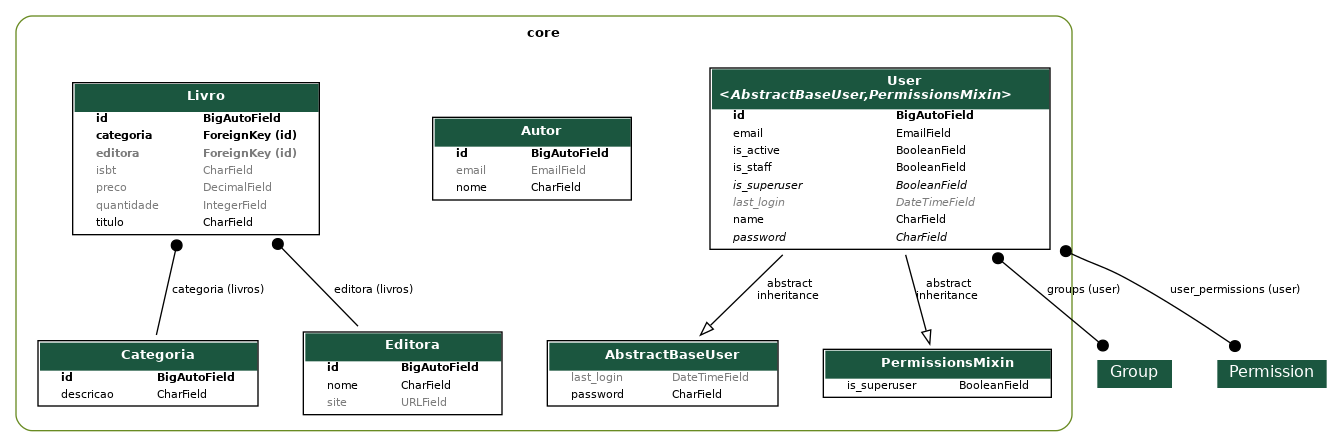
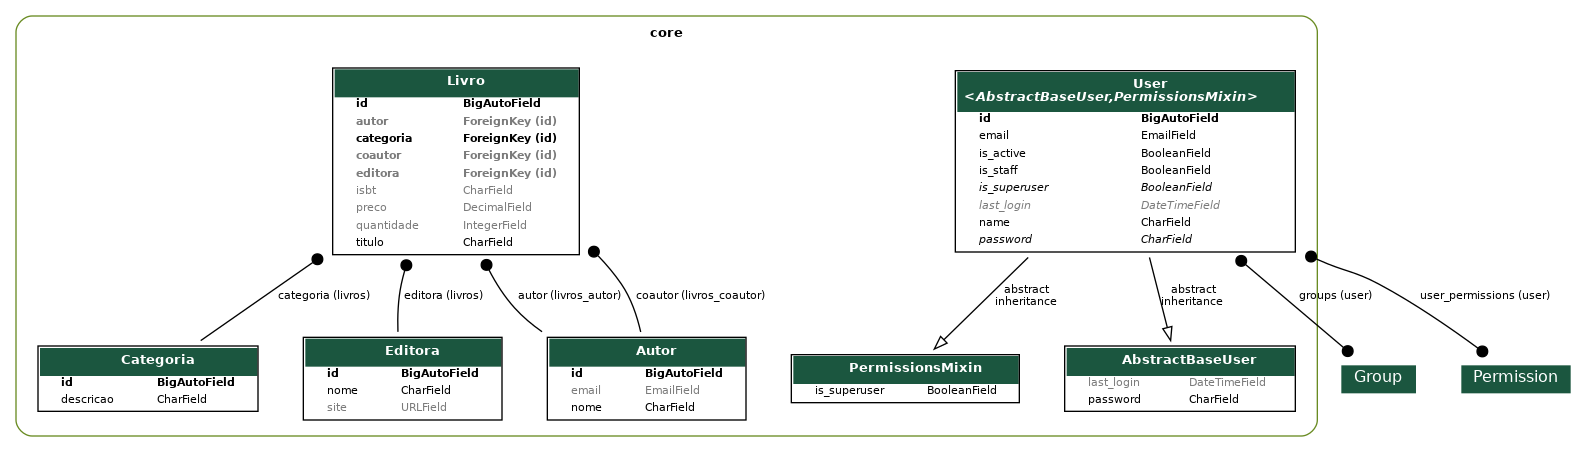
criação da foreign key autor

diff --git a/core/migrations/0013_livro_autor_livro_coautor.py b/core/migrations/0013_livro_autor_livro_coautor.py
@@ -1,0 +1,36 @@
+# Generated by Django 5.0.2 on 2024-08-05 13:53
+
+import django.db.models.deletion
+from django.db import migrations, models
+
+
+class Migration(migrations.Migration):
+
+    dependencies = [
+        ("core", "0012_remove_livro_autor"),
+    ]
+
+    operations = [
+        migrations.AddField(
+            model_name="livro",
+            name="autor",
+            field=models.ForeignKey(
+                blank=True,
+                null=True,
+                on_delete=django.db.models.deletion.PROTECT,
+                related_name="livros_autor",
+                to="core.autor",
+            ),
+        ),
+        migrations.AddField(
+            model_name="livro",
+            name="coautor",
+            field=models.ForeignKey(
+                blank=True,
+                null=True,
+                on_delete=django.db.models.deletion.PROTECT,
+                related_name="livros_coautor",
+                to="core.autor",
+            ),
+        ),
+    ]

diff --git a/core/models/livro.py b/core/models/livro.py
@@ -1,6 +1,7 @@
 from django.db import models
 from .categoria import Categoria
 from .editora import Editora
+from .autor import Autor
 
 class Livro(models.Model):
     titulo = models.CharField(max_length=255)
@@ -13,6 +14,8 @@ class Livro(models.Model):
     editora = models.ForeignKey(
         Editora, on_delete=models.PROTECT, related_name="livros", null=True, blank=True
     )
+    autor = models.ForeignKey(Autor, on_delete=models.PROTECT, related_name="livros_autor", blank=True, null=True)
+    coautor = models.ForeignKey(Autor, on_delete=models.PROTECT, related_name="livros_coautor", blank=True, null=True)
 
     def __str__(self):
-        return f"({self.id}) {self.titulo} ({self.quantidade})"
+        return f"({self.id}) R${self.preco} {self.titulo} {self.categoria} {self.editora} ({self.quantidade})"
